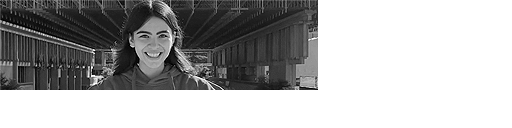
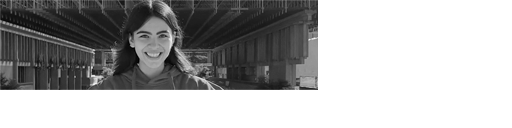
Add files via upload

diff --git a/11_Institutional_enrolment/AD4_728x90/index.js b/11_Institutional_enrolment/AD4_728x90/index.js
@@ -27,7 +27,7 @@ lib.ssMetadata = [
 
 
 
-(lib.Bitmap6 = function() {
+(lib.Pic4new = function() {
 	this.initialize(ss["index_atlas_1"]);
 	this.gotoAndStop(0);
 }).prototype = p = new cjs.Sprite();
@@ -186,37 +186,41 @@ if (reversed == null) { reversed = false; }
 	// Text
 	this.shape = new cjs.Shape();
 	this.shape.graphics.f("#231F20").s().p("AhFBiIBhhiIhhhhIAVgVIB2B2Ih2B3g");
-	this.shape.setTransform(20.45,20.475);
+	this.shape.setTransform(20.475,20.475);
 
 	this.shape_1 = new cjs.Shape();
[1 lines of base64/hex data omitted]
-	this.shape_1.setTransform(126.075,21.6);
[1 lines of base64/hex data omitted]
+	this.shape_1.setTransform(122.525,21.55);
 
 	this.shape_2 = new cjs.Shape();
 	this.shape_2.graphics.f("#FFFFFF").s().p("AhFBiIBhhiIhhhhIAVgVIB2B2Ih2B3g");
-	this.shape_2.setTransform(20.45,20.475);
+	this.shape_2.setTransform(20.475,20.475);
 
 	this.shape_3 = new cjs.Shape();
[1 lines of base64/hex data omitted]
-	this.shape_3.setTransform(126.075,21.6);
[1 lines of base64/hex data omitted]
+	this.shape_3.setTransform(122.525,21.55);
 
 	this.timeline.addTween(cjs.Tween.get({}).to({state:[{t:this.shape_1},{t:this.shape}]}).to({state:[{t:this.shape_3},{t:this.shape_2}]},1).to({state:[{t:this.shape_1},{t:this.shape}]},1).to({state:[]},1).wait(1));
 
 	// Bg
 	this.shape_4 = new cjs.Shape();
-	this.shape_4.graphics.f("#FFFFFF").s().p("AueDNIAAmZIc9AAIAAGZg");
-	this.shape_4.setTransform(114.999,20.475,1.2406,1);
+	this.shape_4.graphics.f("#FFFFFF").s().p("AxLDNIAAmZMAiXAAAIAAGZg");
+	this.shape_4.setTransform(113.4979,20.475,1.0318,1);
 
 	this.shape_5 = new cjs.Shape();
-	this.shape_5.graphics.f().s("#FFFFFF").ss(1,1,1).p("AR+DNMgj7AAAIAAmZMAj7AAAg");
-	this.shape_5.setTransform(115,20.475);
+	this.shape_5.graphics.f().s("#FFFFFF").ss(1,1,1).p("ARvDNMgjdAAAIAAmZMAjdAAAg");
+	this.shape_5.setTransform(113.5,20.475);
 
-	this.timeline.addTween(cjs.Tween.get({}).to({state:[{t:this.shape_4}]}).to({state:[{t:this.shape_5}]},1).to({state:[{t:this.shape_4}]},1).wait(2));
+	this.shape_6 = new cjs.Shape();
+	this.shape_6.graphics.f("#FFFFFF").s().p("AueDNIAAmZIc9AAIAAGZg");
+	this.shape_6.setTransform(113.46,20.475,1.2243,1);
+
+	this.timeline.addTween(cjs.Tween.get({}).to({state:[{t:this.shape_4}]}).to({state:[{t:this.shape_5}]},1).to({state:[{t:this.shape_6}]},1).wait(2));
 
 	this._renderFirstFrame();
 
 }).prototype = p = new cjs.MovieClip();
-p.nominalBounds = new cjs.Rectangle(-1,-1,232,43);
+p.nominalBounds = new cjs.Rectangle(-1,-1,229,43);
 
 
 (lib.gpic4 = function(mode,startPosition,loop,reversed) {
@@ -247,7 +251,7 @@ if (reversed == null) { reversed = false; }
 	this.timeline.addTween(cjs.Tween.get(this.shape).wait(1));
 
 	// Photo
-	this.instance_2 = new lib.Bitmap6();
+	this.instance_2 = new lib.Pic4new();
 	this.instance_2.setTransform(410,0);
 
 	this.timeline.addTween(cjs.Tween.get(this.instance_2).wait(1));
@@ -492,7 +496,7 @@ lib.properties = {
 	color: "#FFFFFF",
 	opacity: 1.00,
 	manifest: [
-		{src:"images/index_atlas_1.png?1726855896171", id:"index_atlas_1"}
+		{src:"images/index_atlas_1.png?1727280565520", id:"index_atlas_1"}
 	],
 	preloads: []
 };

diff --git a/11_Institutional_enrolment/AD4_300x250/index.js b/11_Institutional_enrolment/AD4_300x250/index.js
@@ -27,7 +27,7 @@ lib.ssMetadata = [
 
 
 
-(lib.Bitmap8 = function() {
+(lib.Pic4new = function() {
 	this.initialize(ss["index_atlas_1"]);
 	this.gotoAndStop(0);
 }).prototype = p = new cjs.Sprite();
@@ -189,38 +189,38 @@ if (reversed == null) { reversed = false; }
 	this.shape.setTransform(20.475,20.475);
 
 	this.shape_1 = new cjs.Shape();
[1 lines of base64/hex data omitted]
-	this.shape_1.setTransform(126.075,21.55);
[1 lines of base64/hex data omitted]
+	this.shape_1.setTransform(122.525,21.55);
 
 	this.shape_2 = new cjs.Shape();
 	this.shape_2.graphics.f("#FFFFFF").s().p("AhFBiIBhhiIhhhhIAVgVIB2B2Ih2B3g");
 	this.shape_2.setTransform(20.475,20.475);
 
 	this.shape_3 = new cjs.Shape();
[1 lines of base64/hex data omitted]
-	this.shape_3.setTransform(126.075,21.55);
[1 lines of base64/hex data omitted]
+	this.shape_3.setTransform(122.525,21.55);
 
 	this.timeline.addTween(cjs.Tween.get({}).to({state:[{t:this.shape_1},{t:this.shape}]}).to({state:[{t:this.shape_3},{t:this.shape_2}]},1).to({state:[{t:this.shape_1},{t:this.shape}]},1).to({state:[]},1).wait(1));
 
 	// Bg
 	this.shape_4 = new cjs.Shape();
 	this.shape_4.graphics.f("#FFFFFF").s().p("AxLDNIAAmZMAiXAAAIAAGZg");
-	this.shape_4.setTransform(115.0002,20.475,1.0455,1);
+	this.shape_4.setTransform(113.4996,20.475,1.0318,1);
 
 	this.shape_5 = new cjs.Shape();
-	this.shape_5.graphics.f().s("#FFFFFF").ss(1,1,1).p("AR+DNMgj7AAAIAAmZMAj7AAAg");
-	this.shape_5.setTransform(115,20.475);
+	this.shape_5.graphics.f().s("#FFFFFF").ss(1,1,1).p("ARvDNMgjdAAAIAAmZMAjdAAAg");
+	this.shape_5.setTransform(113.5,20.475);
 
 	this.shape_6 = new cjs.Shape();
 	this.shape_6.graphics.f("#FFFFFF").s().p("AueDNIAAmZIc9AAIAAGZg");
-	this.shape_6.setTransform(114.9748,20.475,1.2405,1);
+	this.shape_6.setTransform(113.4748,20.475,1.2243,1);
 
 	this.timeline.addTween(cjs.Tween.get({}).to({state:[{t:this.shape_4}]}).to({state:[{t:this.shape_5}]},1).to({state:[{t:this.shape_6}]},1).wait(2));
 
 	this._renderFirstFrame();
 
 }).prototype = p = new cjs.MovieClip();
-p.nominalBounds = new cjs.Rectangle(-1,-1,232,43);
+p.nominalBounds = new cjs.Rectangle(-1,-1,229,43);
 
 
 (lib.gpic4 = function(mode,startPosition,loop,reversed) {
@@ -289,7 +289,7 @@ if (reversed == null) { reversed = false; }
 	this.timeline.addTween(cjs.Tween.get(this.shape_2).wait(1));
 
 	// Photo
-	this.instance_2 = new lib.Bitmap8();
+	this.instance_2 = new lib.Pic4new();
 
 	this.timeline.addTween(cjs.Tween.get(this.instance_2).wait(1));
 
@@ -520,7 +520,7 @@ lib.properties = {
 	color: "#FFFFFF",
 	opacity: 1.00,
 	manifest: [
-		{src:"images/index_atlas_1.png?1726856821308", id:"index_atlas_1"}
+		{src:"images/index_atlas_1.png?1727280362834", id:"index_atlas_1"}
 	],
 	preloads: []
 };

diff --git a/11_Institutional_enrolment/AD4_320x50/index.js b/11_Institutional_enrolment/AD4_320x50/index.js
@@ -180,38 +180,38 @@ if (reversed == null) { reversed = false; }
 	this.shape.setTransform(14,12.05);
 
 	this.shape_1 = new cjs.Shape();
[1 lines of base64/hex data omitted]
-	this.shape_1.setTransform(86.3,12.8);
[1 lines of base64/hex data omitted]
+	this.shape_1.setTransform(83.9,12.8);
 
 	this.shape_2 = new cjs.Shape();
 	this.shape_2.graphics.f("#FFFFFF").s().p("AgvBDIBChDIhChCIAOgPIBRBRIhRBRg");
 	this.shape_2.setTransform(14,12.05);
 
 	this.shape_3 = new cjs.Shape();
[1 lines of base64/hex data omitted]
-	this.shape_3.setTransform(86.3,12.8);
[1 lines of base64/hex data omitted]
+	this.shape_3.setTransform(83.9,12.8);
 
 	this.timeline.addTween(cjs.Tween.get({}).to({state:[{t:this.shape_1},{t:this.shape}]}).to({state:[{t:this.shape_3},{t:this.shape_2}]},1).to({state:[{t:this.shape_1},{t:this.shape}]},1).to({state:[]},1).wait(1));
 
 	// Bg
 	this.shape_4 = new cjs.Shape();
-	this.shape_4.graphics.f("#FFFFFF").s().p("AsGB4IAAjvIYNAAIAADvg");
-	this.shape_4.setTransform(77.5,12);
+	this.shape_4.graphics.f("#FFFFFF").s().p("AsBB4IAAjvIYDAAIAADvg");
+	this.shape_4.setTransform(77,12);
 
 	this.shape_5 = new cjs.Shape();
-	this.shape_5.graphics.f().s("#FFFFFF").ss(1,1,1).p("AMHB4I4NAAIAAjvIYNAAg");
-	this.shape_5.setTransform(77.5,12);
+	this.shape_5.graphics.f().s("#FFFFFF").ss(1,1,1).p("AMCB4I4DAAIAAjvIYDAAg");
+	this.shape_5.setTransform(77,12);
 
 	this.shape_6 = new cjs.Shape();
 	this.shape_6.graphics.f("#FFFFFF").s().p("Ap6CMIAAkXIT1AAIAAEXg");
-	this.shape_6.setTransform(77.4881,11.9905,1.2209,0.8556);
+	this.shape_6.setTransform(76.9818,11.9905,1.2131,0.8556);
 
 	this.timeline.addTween(cjs.Tween.get({}).to({state:[{t:this.shape_4}]}).to({state:[{t:this.shape_5}]},1).to({state:[{t:this.shape_6}]},1).wait(2));
 
 	this._renderFirstFrame();
 
 }).prototype = p = new cjs.MovieClip();
-p.nominalBounds = new cjs.Rectangle(-1,-1,157,26);
+p.nominalBounds = new cjs.Rectangle(-1,-1,156,26);
 
 
 // stage content:

diff --git a/11_Institutional_enrolment/AD4_300x250/index.html b/11_Institutional_enrolment/AD4_300x250/index.html
@@ -24,7 +24,7 @@
   }
 </style>
 <script src="https://code.createjs.com/1.0.0/createjs.min.js"></script>
-<script src="index.js?1726856821320"></script>
+<script src="index.js?1727280362849"></script>
 <script>
 var canvas, stage, exportRoot, anim_container, dom_overlay_container, fnStartAnimation;
 function init() {

diff --git a/11_Institutional_enrolment/AD4_320x50/index.html b/11_Institutional_enrolment/AD4_320x50/index.html
@@ -24,7 +24,7 @@
   }
 </style>
 <script src="https://code.createjs.com/1.0.0/createjs.min.js"></script>
-<script src="index.js?1726681121465"></script>
+<script src="index.js?1727281723574"></script>
 <script>
 var canvas, stage, exportRoot, anim_container, dom_overlay_container, fnStartAnimation;
 function init() {

diff --git a/11_Institutional_enrolment/AD4_728x90/index.html b/11_Institutional_enrolment/AD4_728x90/index.html
@@ -24,7 +24,7 @@
   }
 </style>
 <script src="https://code.createjs.com/1.0.0/createjs.min.js"></script>
-<script src="index.js?1726855896184"></script>
+<script src="index.js?1727280565542"></script>
 <script>
 var canvas, stage, exportRoot, anim_container, dom_overlay_container, fnStartAnimation;
 function init() {
